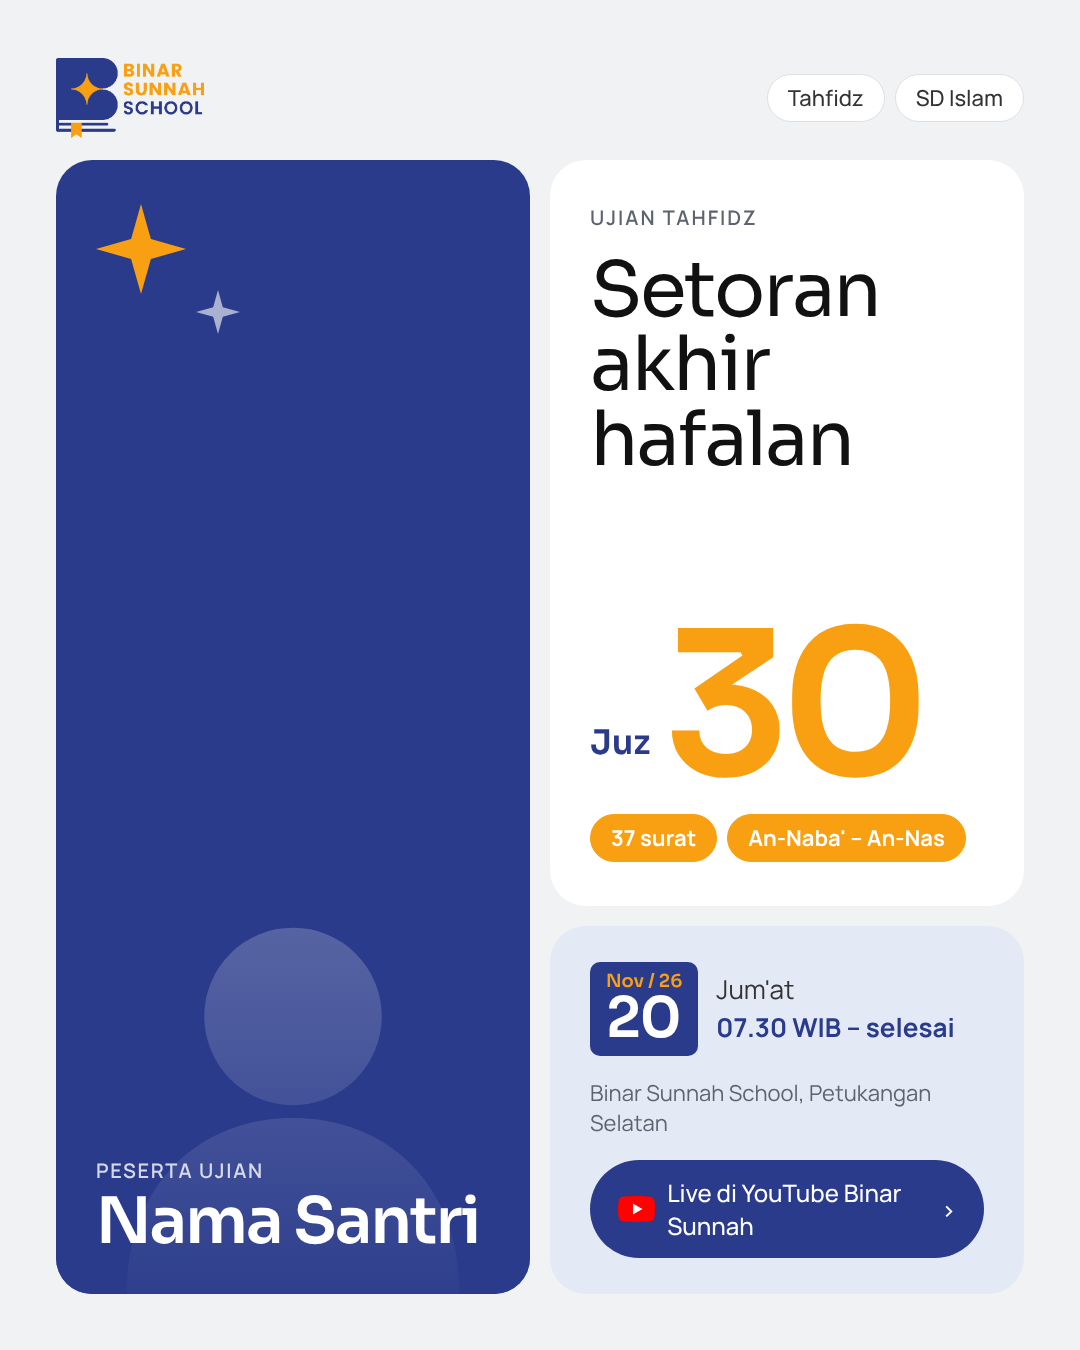
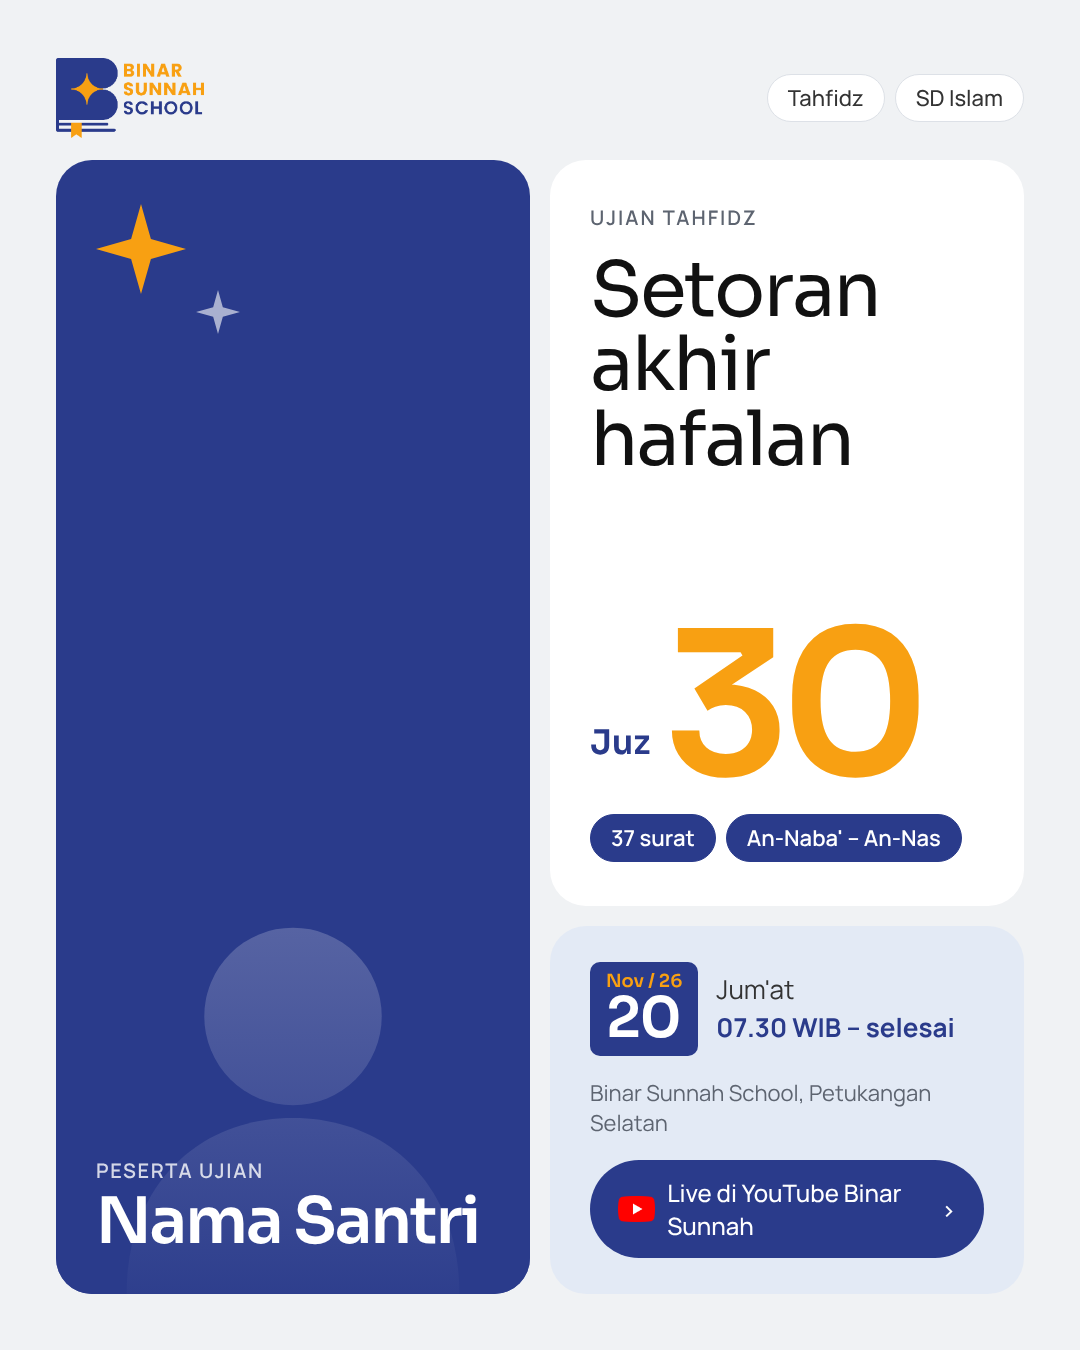
Switch highlight tags from amber to navy
Amber is now reserved for the single focal number (juz, stats).
Navy tags keep the number as the focus and read at ~10:1 contrast.

Claude-Session: https://claude.ai/code/session_015xMm4KmPFL7gFrjSZTCvzA

Changed region(s): [[0.55, 0.5911, 0.9167, 0.6533]]

diff --git a/docs/binar-sunnah-school/templates/Poster Ujian Tahfidz/Poster Ujian Tahfidz.html b/docs/binar-sunnah-school/templates/Poster Ujian Tahfidz/Poster Ujian Tahfidz.html
@@ -61,8 +61,8 @@ h1{font-family:var(--font-display);font-weight:400;font-size:76px;line-height:.9
 .juz span{font-family:var(--font-display);font-size:34px;color:var(--binar-navy);font-weight:600;padding-bottom:22px}
 .juz b{font-family:var(--font-display);font-weight:600;font-size:200px;line-height:.8;letter-spacing:-.05em;color:var(--binar-amber)}
 .juz-group{margin-top:auto;display:flex;flex-direction:column;gap:28px}
-/* Tag highlight (juz & nama surat): amber + teks putih tebal. Jangan teks hitam. */
-.info .tag{background:var(--binar-amber);border-color:var(--binar-amber);color:#fff;font-weight:700}
+/* Tag highlight (halaman & nama surat): navy + teks putih. Amber khusus untuk angka juz. */
+.info .tag{background:var(--binar-navy);border-color:var(--binar-navy);color:#fff;font-weight:600}
 
 /* Kartu jadwal: biru muda, BUKAN hitam/charcoal */
 .schedule{background:var(--binar-blue-50);border-radius:var(--radius-card);padding:36px var(--pad);display:flex;flex-direction:column;gap:22px;color:var(--text)}

diff --git a/docs/binar-sunnah-school/Design System Binar.md b/docs/binar-sunnah-school/Design System Binar.md
@@ -96,7 +96,7 @@ Setiap aturan baru yang disepakati dicatat di dokumen ini **dan** di `SKILL.md`.
 | Token | Hex | Peran |
 |---|---|---|
 | `--binar-navy` | `#2A3B8B` | **Primer**: judul penting, tombol solid, latar post |
-| `--binar-amber` | `#F8A012` | **Aksen**: bintang, highlight, angka statistik |
+| `--binar-amber` | `#F8A012` | **Aksen**: bintang, angka besar (juz, statistik) |
 | `--binar-blue` | `#386BB7` | **Sekunder**: link, ujung gradien |
 | `--binar-blue-50` | `#E3EAF5` | **Panel sekunder**: kartu jadwal/info, latar tag. Tint 14% dari `--binar-blue` |
 | `--ink` | `#111111` | Heading |
@@ -220,15 +220,14 @@ Pola label: kata kerja ajakan, misalnya "Temukan program kami", "Unduh PDF", "Li
 | Varian | Spesifikasi | Pemakaian |
 |---|---|---|
 | **Netral** | Pill putih, border `--line` 1.5px, teks `--text` Manrope 500 | Kategori, label umum (misalnya "Tahfidz", "SD Islam") |
-| **Highlight** | Pill `--binar-amber`, teks **putih** Manrope 700 | Data yang ingin ditonjolkan: target juz, jumlah surat, nama surat |
+| **Highlight** | Pill `--binar-navy`, teks **putih** Manrope 600 | Data pendukung yang ingin ditonjolkan: jumlah halaman, jumlah surat, nama surat |
 
 **Aturan tag highlight:**
-- Di atas amber, teks **putih**, tidak pernah hitam (aturan 3.4).
-- Kontras putih di atas amber hanya sekitar 2.1:1, jadi:
-  - pakai weight 700
-  - ukuran minimal 22px di poster 1080px
-  - isinya hanya label pendek (1–4 kata), jangan kalimat atau info penting yang wajib terbaca
-- Tidak ada warna oranye tambahan. Tag highlight memakai amber brand yang sama dengan angka besar, supaya jumlah warna di desain tetap sedikit.
+- **Amber hanya untuk satu fokus**, yaitu angka besar (juz, statistik). Tag di sekitarnya memakai **navy**, supaya angka tetap jadi pusat perhatian dan tag terbaca sebagai info pendukung.
+- Kontras putih di atas navy sekitar 10:1, jadi aman untuk ukuran apa pun.
+- Isinya tetap label pendek (1–4 kata).
+
+*Riwayat: tag highlight sempat memakai amber dengan teks putih. Diganti ke navy karena pill amber menyatu dengan angka juz dan kontrasnya rendah (2.1:1).*
 
 Pill outline tipis, teks 11–12px. Isinya **target konkret** program, misalnya `100 Doa Harian` · `50 Hadits` · `Target Juz 30` · `25 Hadits` · `Target 15 Surat Pendek`. Di kartu event, tag dipakai untuk kategori, misalnya `akhlak` · `tarbiyah` · `kompetisi`.
 
@@ -352,7 +351,7 @@ Kanvas feed: **1080×1350 (4:5)**. Story: 1080×1920.
 **Poster Ujian Tahfidz** adalah layout bento dengan empat area:
 - **Header:** logo sejajar tepi kiri kartu, tag sejajar tepi kanan kartu.
 - **Kartu foto (kiri):** navy dengan foto santri di tengah dan gradien navy di bawah nama.
-- **Kartu info (kanan atas):** putih, berisi judul dan "Juz **30**". Angkanya Sora 600 200px, **solid amber**. Angka dan tag highlight (jumlah dan nama surat, amber dengan teks putih) dikelompokkan di bagian bawah kartu dengan jarak 28px.
+- **Kartu info (kanan atas):** putih, berisi judul dan "Juz **30**". Angkanya Sora 600 200px, **solid amber**. Angka dan tag highlight (jumlah halaman/surat dan nama surat, **navy** dengan teks putih) dikelompokkan di bagian bawah kartu dengan jarak 28px.
 - **Kartu jadwal (kanan bawah):** `--binar-blue-50`, berisi badge tanggal navy dan tombol pill navy dengan **ikon YouTube resmi** (lihat 7.1).
 
 Aturan template ini:

diff --git a/.claude/skills/binar-design-system/SKILL.md b/.claude/skills/binar-design-system/SKILL.md
@@ -21,7 +21,7 @@ Dalam urusan warna, font, dan aturan, skill ini **mengalahkan** skill desain umu
 | Token | Nilai | Peran |
 |---|---|---|
 | `--binar-navy` | `#2A3B8B` | Primer: kartu foto, tombol, badge, teks penting |
-| `--binar-amber` | `#F8A012` | Aksen: angka besar, bintang, tag highlight |
+| `--binar-amber` | `#F8A012` | Aksen: angka besar, bintang (satu fokus per desain) |
 | `--binar-blue` | `#386BB7` | Sekunder: link |
 | `--binar-blue-50` | `#E3EAF5` | Panel sekunder: kartu jadwal/info |
 | `--ink` / `--text` / `--muted` | `#111111` / `#333333` / `#5D6470` | Teks |
@@ -44,7 +44,8 @@ Dalam urusan warna, font, dan aturan, skill ini **mengalahkan** skill desain umu
 - Angka besar (juz, statistik) **solid amber**, tidak outline.
 - Tag ada dua varian:
   - **Netral:** putih, border `--line`, teks `--text`. Untuk kategori.
-  - **Highlight:** latar amber, teks **putih** weight 700, minimal 22px, isi 1–4 kata. Untuk data hafalan.
+  - **Highlight:** latar **navy**, teks **putih** weight 600, isi 1–4 kata. Untuk data pendukung hafalan (jumlah halaman/surat, nama surat).
+- Amber hanya untuk **satu fokus**, yaitu angka besar. Jangan memberi warna amber pada tag di sekitar angka itu.
 - Tombol: pill navy, teks putih, diakhiri chevron `›`.
 - Logo Binar: pakai file resmi, jangan diketik ulang atau diwarnai ulang. Di poster, logo sejajar dengan **tepi kartu**, bukan dengan isi kartu.
 - Logo platform (YouTube, Instagram, WhatsApp): pakai **file resmi** dengan warna aslinya, jangan digambar ulang dengan CSS. Ikon YouTube ada di `docs/binar-sunnah-school/templates/Poster Ujian Tahfidz/youtube-icon.png`.

diff --git a/docs/binar-sunnah-school/templates/Poster Ujian Tahfidz/README.md b/docs/binar-sunnah-school/templates/Poster Ujian Tahfidz/README.md
@@ -34,12 +34,12 @@ Template Instagram feed **1080×1350 (4:5)** untuk pengumuman ujian tahfidz sant
 |---|---|---|
 | Header | Logo sejajar tepi kiri kartu, tag sejajar tepi kanan kartu | `--margin: 56px` |
 | Kartu foto | Latar navy, 2 bintang, foto di tengah, gradien navy di bawah, nama | `--binar-navy`, `--radius-card: 36px` |
-| Kartu info | Eyebrow, judul Sora 400, "Juz" + angka besar **solid amber**, tag highlight (jumlah dan nama surat) amber dengan teks putih | `--surface`, `--binar-amber` |
+| Kartu info | Eyebrow, judul Sora 400, "Juz" + angka besar **solid amber**, tag highlight (jumlah halaman/surat dan nama surat) navy dengan teks putih | `--surface`, `--binar-amber`, `--binar-navy` |
 | Kartu jadwal | Badge tanggal navy, hari dan jam, tempat, tombol pill navy | `--binar-blue-50` |
 
 ## Aturan
 - Angka juz selalu **solid amber**, jangan dibuat outline.
-- Tag di kartu info (jumlah surat, rentang surat) adalah **tag highlight**: latar amber, teks **putih** Manrope 700, minimal 22px. Isinya label pendek saja. Jangan pakai teks hitam di atas amber. Tag di header tetap netral (putih, border abu).
+- Tag di kartu info (jumlah halaman/surat, rentang surat) adalah **tag highlight**: latar **navy**, teks **putih** Manrope 600, isinya label pendek. Amber hanya untuk angka juz. Tag di header tetap netral (putih, border abu).
 - Kartu jadwal memakai **biru muda `--binar-blue-50`**. **Jangan pakai hitam atau charcoal bersama amber.**
 - Logo dan tag sejajar dengan **tepi kartu**, bukan dengan isi kartu.
 - Tidak ada lingkaran atau bentuk dekoratif di belakang foto. Cukup latar navy dan bintang.

diff --git a/README.md b/README.md
@@ -36,7 +36,7 @@ Dokumentasi lengkap ada di [`docs/binar-sunnah-school/Design System Binar.md`](d
 | | Token | Hex | Peran |
 |---|---|---|---|
 | 🟦 | `--binar-navy` | `#2A3B8B` | Primer: kartu foto, tombol, badge |
-| 🟧 | `--binar-amber` | `#F8A012` | Aksen: angka besar, bintang, tag highlight |
+| 🟧 | `--binar-amber` | `#F8A012` | Aksen: angka besar (juz, statistik), bintang |
 | 🔷 | `--binar-blue` | `#386BB7` | Sekunder: link |
 | ⬜ | `--binar-blue-50` | `#E3EAF5` | Panel sekunder: kartu jadwal/info |
 | ⬜ | `--canvas` | `#F0F2F4` | Latar halaman / poster |
